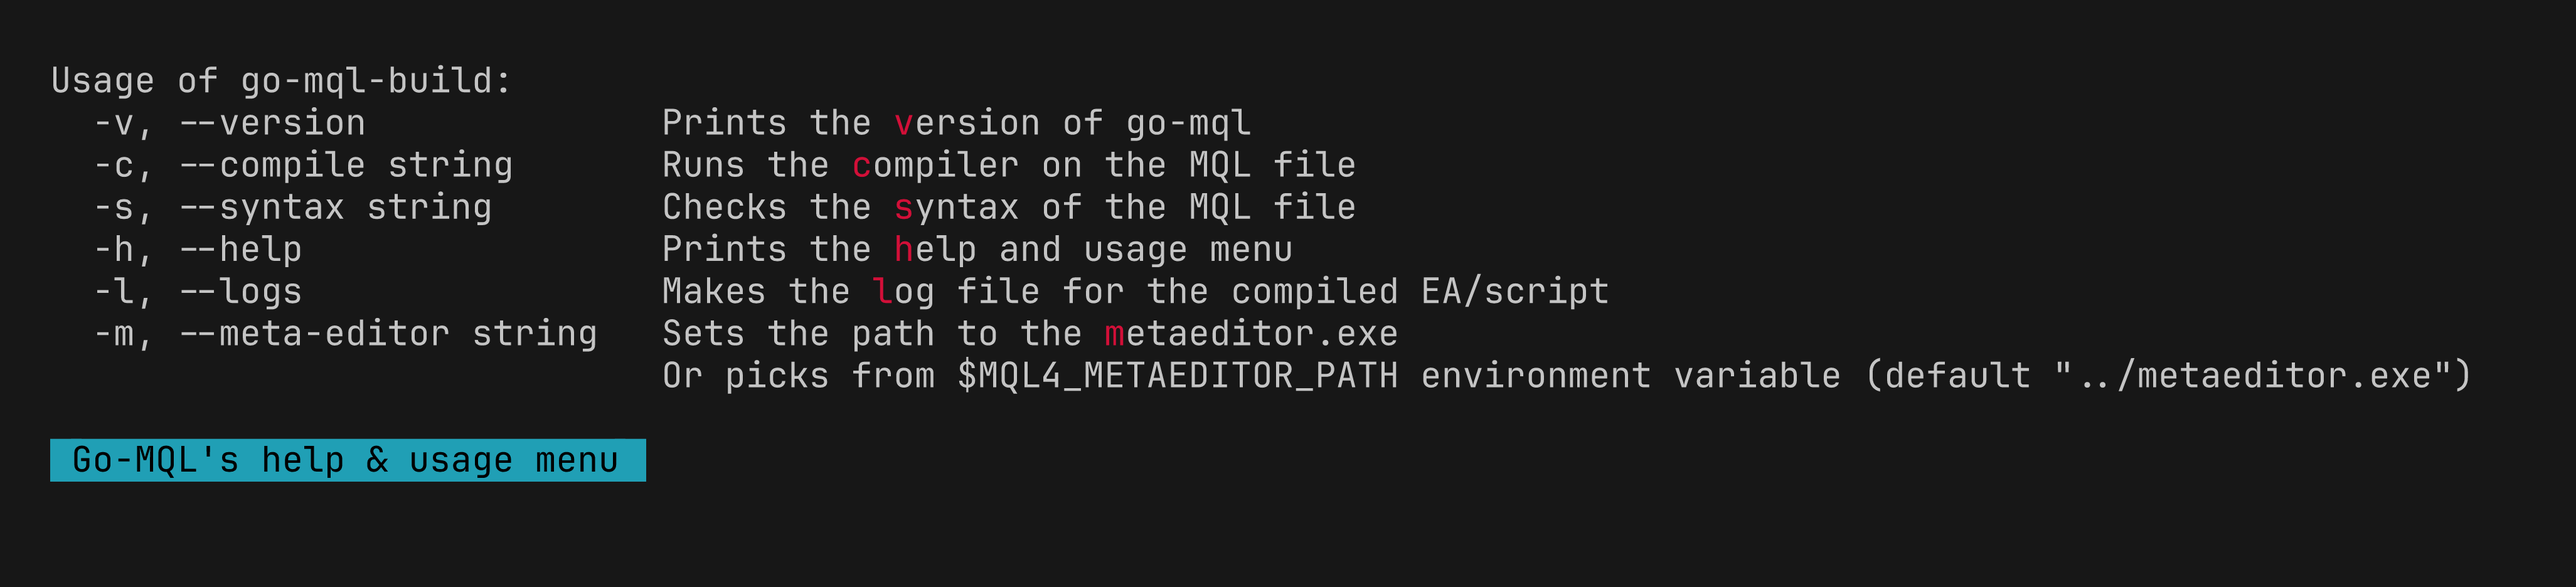
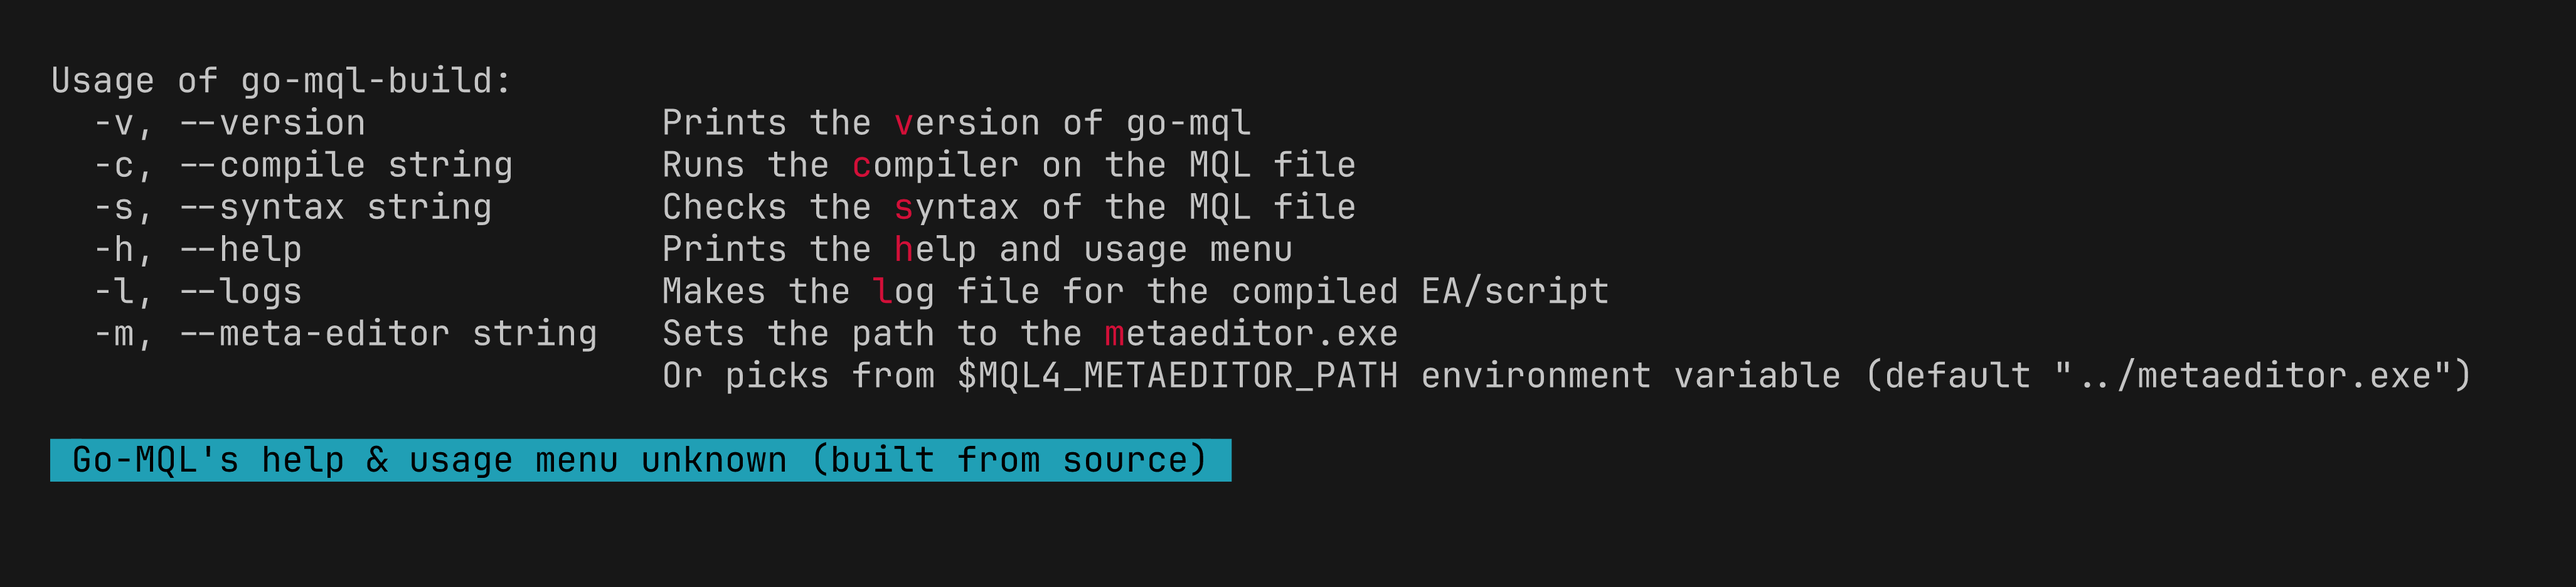
added just file

Changed region(s): [[0.2494, 0.7436, 0.4988, 0.8365]]

diff --git a/main.go b/main.go
@@ -3,7 +3,6 @@ package main
 import (
 	"fmt"
 	"os"
-	"runtime/debug"
 
 	common "github.com/MAK227/go-mql-build/Common"
 	catppuccin "github.com/catppuccin/go"
@@ -18,9 +17,6 @@ func main() {
 	cfg.ParseCLIArgs()
 
 	if cfg.Version {
-		if info, ok := debug.ReadBuildInfo(); ok && info.Main.Sum != "" {
-			common.VERSION = info.Main.Version
-		}
 		fmt.Println("Go-MQL's version:", common.HelpStyle.
 			Render(common.VERSION),
 		)
@@ -37,9 +33,7 @@ func main() {
 
 		outputStr, status := common.Compile(cfg.Compile, logfile, compileTarget, cfg)
 
-		var diagnostics common.Diagnostic
-
-		diagnostics = common.ParseLogFile(outputStr, status, "compile")
+		diagnostics := common.ParseLogFile(outputStr, status, "compile")
 
 		common.PrintDiagnostics(diagnostics, readFileCache)
 
@@ -58,9 +52,7 @@ func main() {
 
 		outputStr, status := common.SyntaxCheck(cfg.Syntax, logfile, syntaxTarget, cfg)
 
-		var diagnostics common.Diagnostic
-
-		diagnostics = common.ParseLogFile(outputStr, status, "syntax")
+		diagnostics := common.ParseLogFile(outputStr, status, "syntax")
 
 		common.PrintDiagnostics(diagnostics, readFileCache)
 

diff --git a/Common/Flags.go b/Common/Flags.go
@@ -4,6 +4,7 @@ import (
 	"errors"
 	"fmt"
 	"os"
+	"runtime/debug"
 
 	catppuccin "github.com/catppuccin/go"
 	"github.com/charmbracelet/lipgloss"
@@ -79,11 +80,15 @@ func (c *MQLConfig) ParseCLIArgs() {
 	flag.ErrHelp = errors.New("\n" + HelpStyle.Render("Go-MQL's help & usage menu"))
 	flag.CommandLine.SortFlags = false
 
+	if info, ok := debug.ReadBuildInfo(); ok && info.Main.Sum != "" {
+		VERSION = info.Main.Version
+	}
+
 	flag.Parse()
 
 	if !c.Version && c.Compile == "" && c.Syntax == "" {
 		flag.Usage()
 		fmt.Println()
-		fmt.Println(HelpStyle.Render("Go-MQL's help & usage menu"))
+		fmt.Println(HelpStyle.Render("Go-MQL's help & usage menu", VERSION))
 	}
 }
